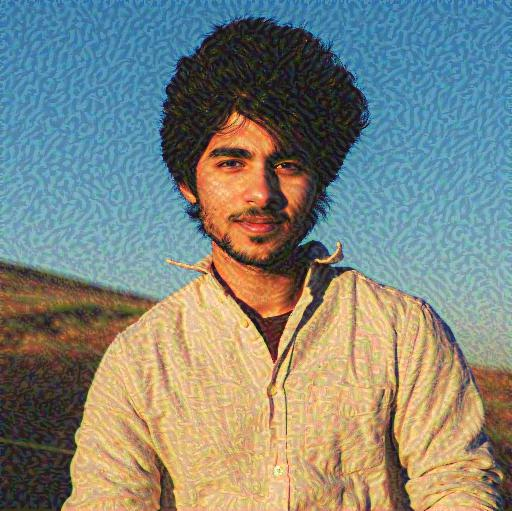
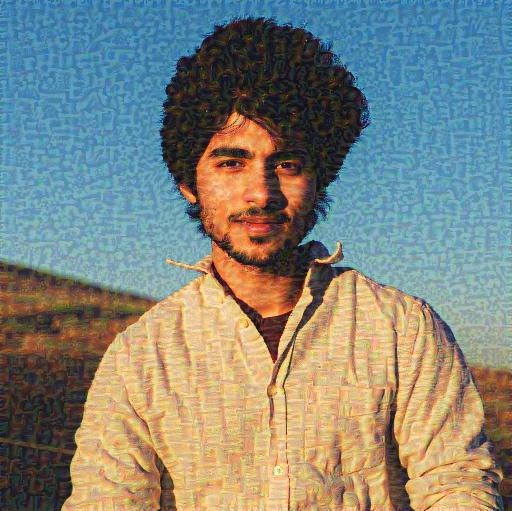
minor fix

diff --git a/backend/model/nst.py b/backend/model/nst.py
@@ -1,11 +1,16 @@
 import tensorflow as tf
 from tensorflow.keras.preprocessing.image import load_img,img_to_array,save_img
-  
 from tensorflow.keras.applications import vgg19
 import numpy as np
 import PIL.Image
 import time
 import functools
+
+
+
+
+
+
 
 
 def tensor_to_image(tf_input):
@@ -77,11 +82,13 @@ class StyleContentModel(tf.keras.models.Model):
                   in zip(self.style_layers,style_outputs)}
     return {'content': content_dict,'style': style_dict}
 
+
+
 def clip_0_1(image):
   return tf.clip_by_value(image,clip_value_min=0.0,clip_value_max=1.0)
 
 
-def style_content_loss(outputs,style_targets):
+def style_content_loss(outputs):
   style_outputs = outputs['style']
   content_outputs = outputs['content']
   style_loss = tf.add_n([tf.reduce_mean((style_outputs[name]-style_targets[name])**2)
@@ -95,6 +102,18 @@ def style_content_loss(outputs,style_targets):
   loss = style_loss + content_loss
   return loss
   
+
+@tf.function()
+def train_step(image):
+    with tf.GradientTape() as tape:
+        outputs = extractor(image)
+        loss = style_content_loss(outputs)
+        loss += total_variation_weight*tf.image.total_variation(image)
+
+    grad = tape.gradient(loss, image)
+    opt.apply_gradients([(grad, image)])
+    image.assign(clip_0_1(image))
+
 def high_pass_x_y(image):
     x_var = image[:,:,1:,:] - image[:,:,:-1,:]
     y_var = image[:,1:,:,:] - image[:,:-1,:,:]
@@ -106,18 +125,33 @@ def total_variation_loss(image):
     x_deltas, y_deltas = high_pass_x_y(image)
     return tf.reduce_sum(tf.abs(x_deltas)) + tf.reduce_sum(tf.abs(y_deltas))
 
+
 def main(refer_img_path, target_img_path):
+
+    global num_content_layers 
+    global num_style_layers 
+
+    global style_targets
+    global content_targets
+
+    global style_weight 
+    global content_weight 
+
+    global extractor 
+
+    global total_variation_weight
+    global opt
 
     refer_img_path = refer_img_path.split('/')[-1]
     target_img_path = target_img_path.split('/')[-1]
-    print('HHHHHHHHHHHHHHHHHHHHHHHHHHHHHHHHHHHHHHHHHHHHHHHHHHHHHHHHHHHHHHHHHHHHHHHHHHHHHHHHHHHHHHHHHHHHHHHHHHHHHHHHHHHHHHHHHHHHHHHHHHHHHHHHHHHHHHHHHHHHH',target_img_path)
-    
+
     style_reference_image_path = 'backend/static/images/nst_get/' + refer_img_path
     target_image_path = 'backend/static/images/' + target_img_path
-    print('HHHHHHHHHHHHHHHHHHHHHHHHHHHHHHHHHHHHHHHHHHHHHHHHHHHHHHHHHHHHHHHHHHHHHHHHHHHHHHHHHHHHHHHHHHHHHHHHHHHHHHHHHHHHHHHHHHHHHHHHHHHHHHHHHHHHHHHHHHHHH',target_img_path)
+   
     target_img_path = load_img(target_image_path)
     style_reference_image_path = load_img(style_reference_image_path)
 
+    # Most Commonly used layers for Neural Style Transfer
     content_layers = ['block5_conv2']
     style_layers = ['block1_conv1',
                     'block2_conv1',
@@ -125,54 +159,36 @@ def main(refer_img_path, target_img_path):
                     'block4_conv1',
                     'block5_conv1']
 
-    global num_content_layers 
-    num_content_layers=len(content_layers)
-    global num_style_layers 
+    num_content_layers=len(content_layers)    
     num_style_layers= len(style_layers)
 
     style_extractor = vgg_layers(style_layers)
     style_outputs = style_extractor(style_reference_image_path*255)
 
+
     extractor = StyleContentModel(style_layers,content_layers)
-
     results = extractor(tf.constant(target_img_path))
-
-    global style_targets
+    
     style_targets = extractor(style_reference_image_path)['style']
-    global content_targets
     content_targets = extractor(target_img_path)['content']
     
     total_variation_weight=30
-    @tf.function()
-    def train_step(image,style_content_loss):
-        with tf.GradientTape() as tape:
-            outputs = extractor(image)
-            loss = style_content_loss(outputs,style_targets)
-            loss += total_variation_weight*tf.image.total_variation(image)
-
-        grad = tape.gradient(loss, image)
-        opt.apply_gradients([(grad, image)])
-        image.assign(clip_0_1(image))
-
 
     image = tf.Variable(target_img_path)
-
     opt = tf.optimizers.Adam(learning_rate = 0.02,beta_1=0.99,epsilon=1e-1)
-
-    global style_weight 
+    
     style_weight =1e-2
-    global content_weight 
     content_weight= 1e4
+
     refer_img_name = target_image_path.split(',')[0].split('/')[-1]
     result_prefix = 'backend/static/images/__nst_results/' + refer_img_name
     
-    train_step(image,style_content_loss)
-    train_step(image,style_content_loss)
-    train_step(image,style_content_loss)
+    train_step(image)
+    train_step(image)
+    train_step(image)
+
     img = tensor_to_image(image)
-
-
-    fname = result_prefix #+ '.jpg'
+    fname = result_prefix 
     save_img(fname,img)
 
     return fname

diff --git a/backend/__init__.py b/backend/__init__.py
@@ -1,14 +1,14 @@
 import os,sys
+from flask import Flask,escape,request,Response,g,make_response
+from flask.templating import render_template
+
 
 real_path = os.path.dirname(os.path.realpath(__file__))
 sub_path = "/".join(real_path.split("/")[:-1])
 
 os.chdir(sub_path)
 
-from . import nst
-from flask import Flask,escape,request,Response,g,make_response
-from flask.templating import render_template
-
+from .model import nst
 
 app=Flask(__name__)
 app.debug=True
